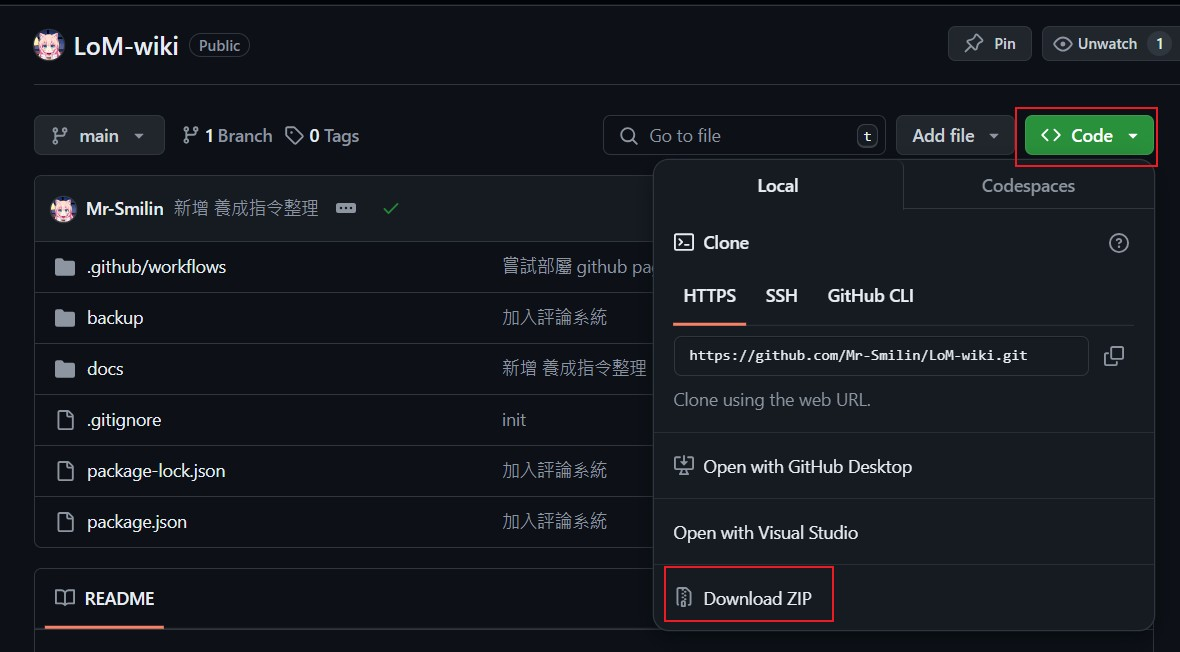
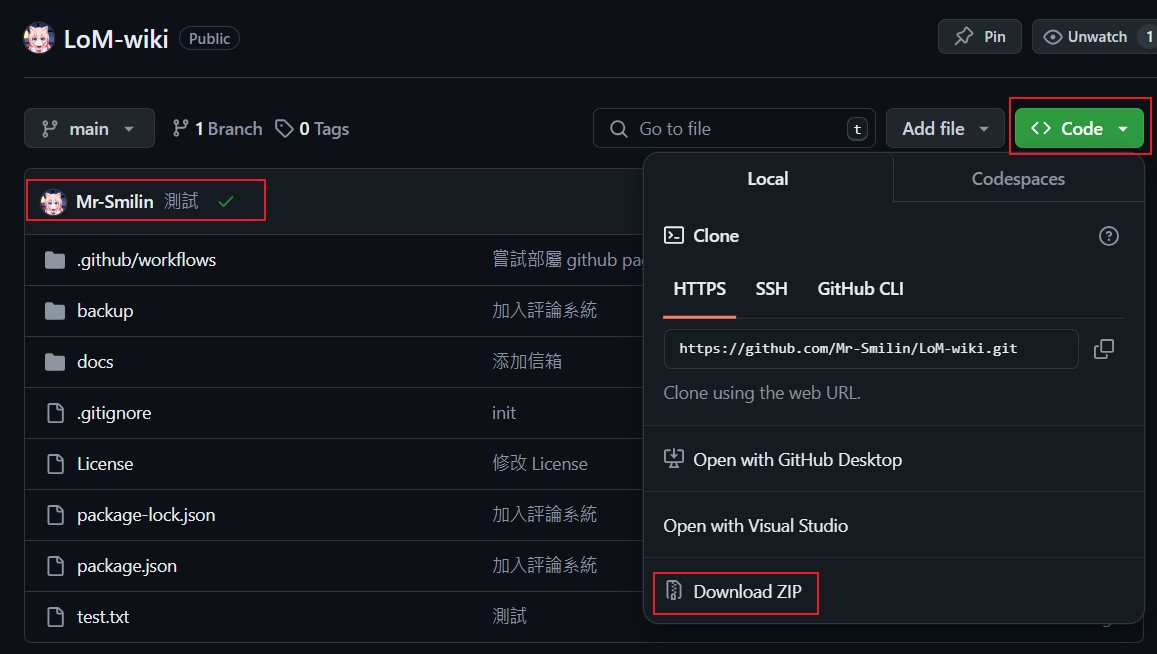
刪除測試檔案 如何開始 修改

diff --git a/docs/1-1-devlep-start.md b/docs/1-1-devlep-start.md
@@ -70,16 +70,22 @@ outline: [2, 3]
 ::: warning 💡 注意
 此條例預設面向 `Git` 小白  
 使用方法偏向土法煉鋼，  
-提供遇到錯誤時，萬無一失的處理辦法  
+提供手把手的 GUI 操作，  
 原本就有一定 `Git` 知識的程序猿請按照習慣的方式進行本地作業。
 :::
 
-點擊本站右上的圖標，會跳轉至專案首頁
+點擊本站右上的圖標，跳轉至專案首頁
 
 ![](/images/1-1-devlep-start/04.jpg)
 
+::: danger 💡 注意
+此處務必將左側的該段文字保存記下，  
+示意圖中是 'Mr-Smilin 測試'  
+我們稱呼他`C紀錄`，之後會用到
+:::
+
 點選綠色的`Code`按鈕，`Download ZIP`  
-就會將本 wiki 整包下載至電腦內，  
+將本 wiki 整包下載至電腦內，  
 找個方便開發的地方整理好，進行解壓縮。
 
 ![](/images/1-1-devlep-start/05.jpg)
@@ -93,3 +99,29 @@ outline: [2, 3]
 - `en` 資料夾內存放英文版本的同名 wiki 檔案，維護時可協助新增修改
 - `public` 存放靜態資源，例如需要上傳圖檔，請將圖檔按照 `public/{md檔名}/{圖檔}.{副檔名}`的形式擺放
 - `.vitepress` 為本專案的設定檔，請務必在閱讀[設定檔項目說明]()後再進行調整
+
+調整完畢後回到 `Github`
+
+::: danger 💡 注意
+上傳前要確認`C紀錄`是否跟你下載時是同一段文字  
+如果不同，需確認要上傳的檔案是否剛好有人進行編輯&更新  
+否則會覆蓋到其他人的改動，或是產生衝突！
+:::
+
+點進對應的路徑  
+例如編輯文本，那就是點進`docs`資料夾
+
+::: details 示意圖
+![](/images/1-1-devlep-start/07.jpg)
+![](/images/1-1-devlep-start/08.jpg)
+:::
+
+目錄相同後，點擊右上角的 `Add file`  
+選擇 `Upload files`，將修改的文檔拖入畫面
+
+![](/images/1-1-devlep-start/08.jpg)
+
+在 `Add files via upload` 的框簡單打一下修改了甚麼，  
+之後 `Commit changes`。
+
+到此土法煉鋼的本地編輯完成。
